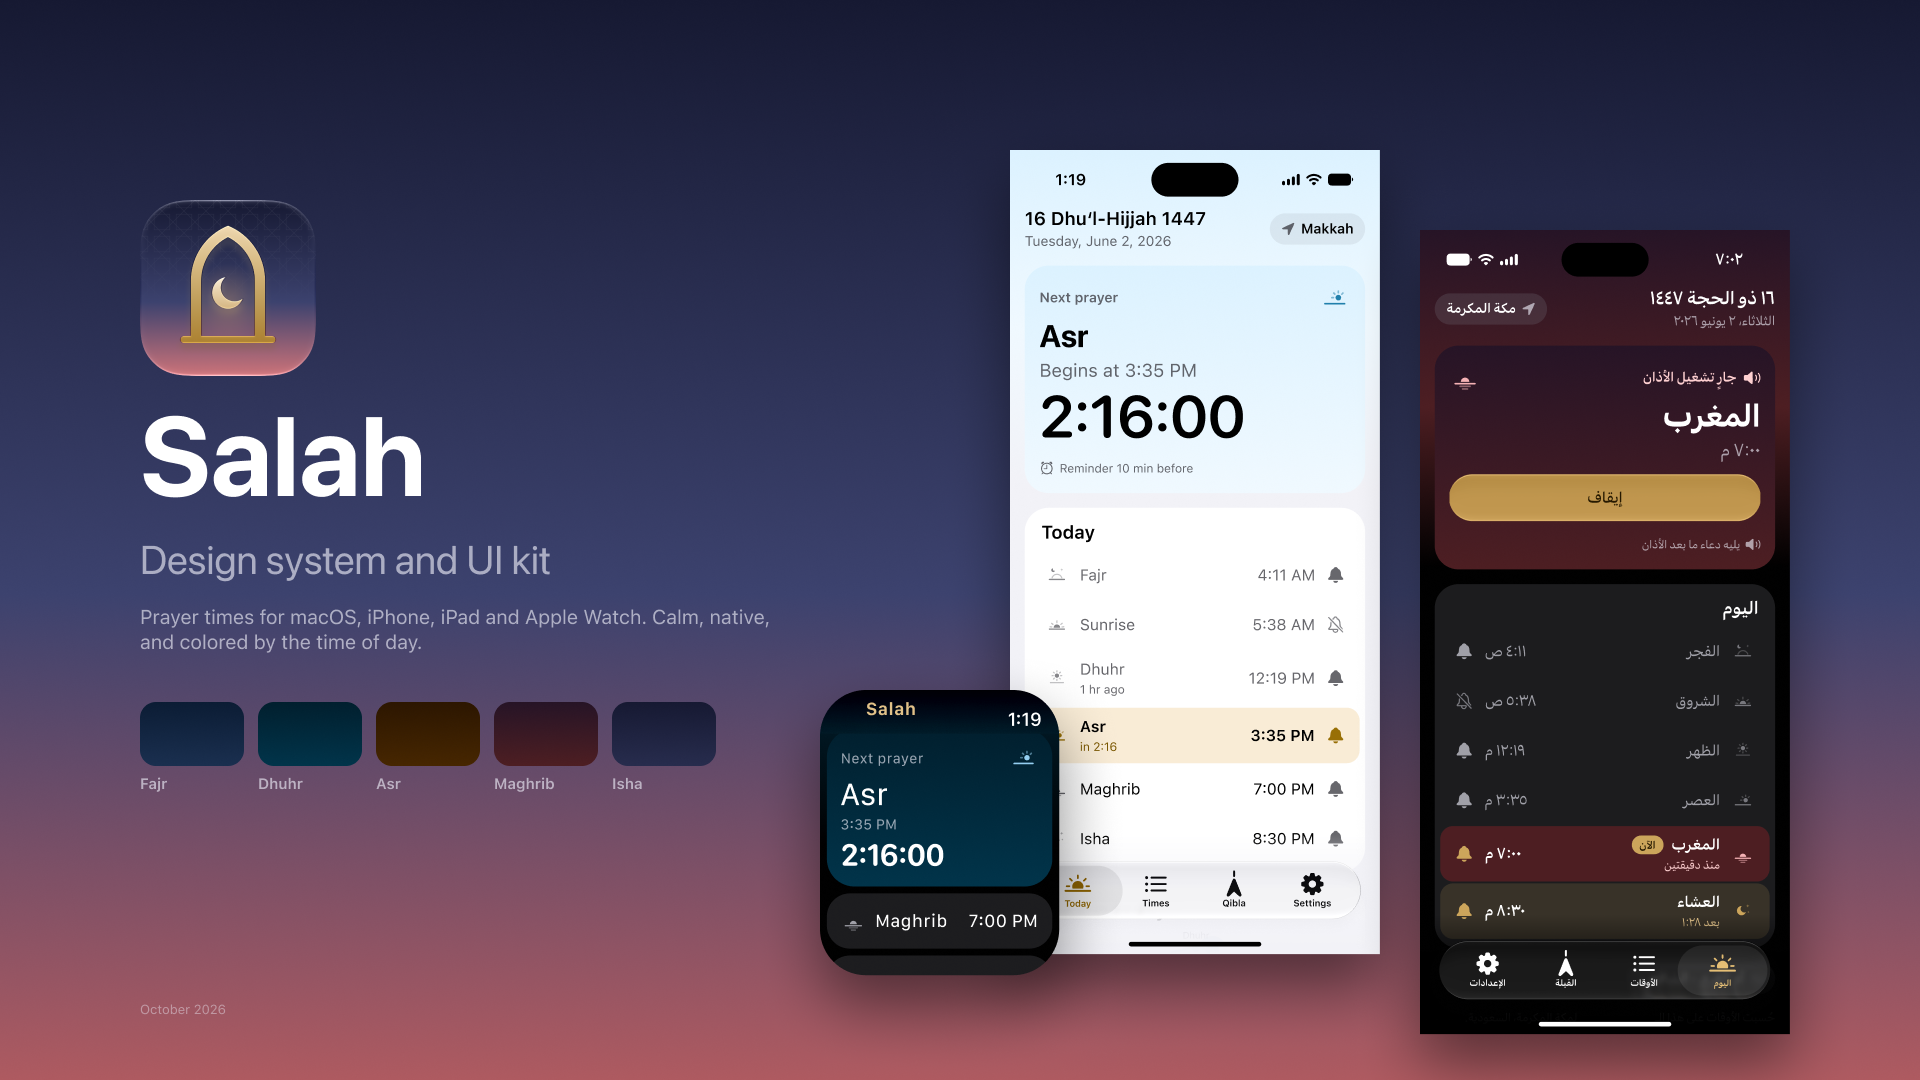
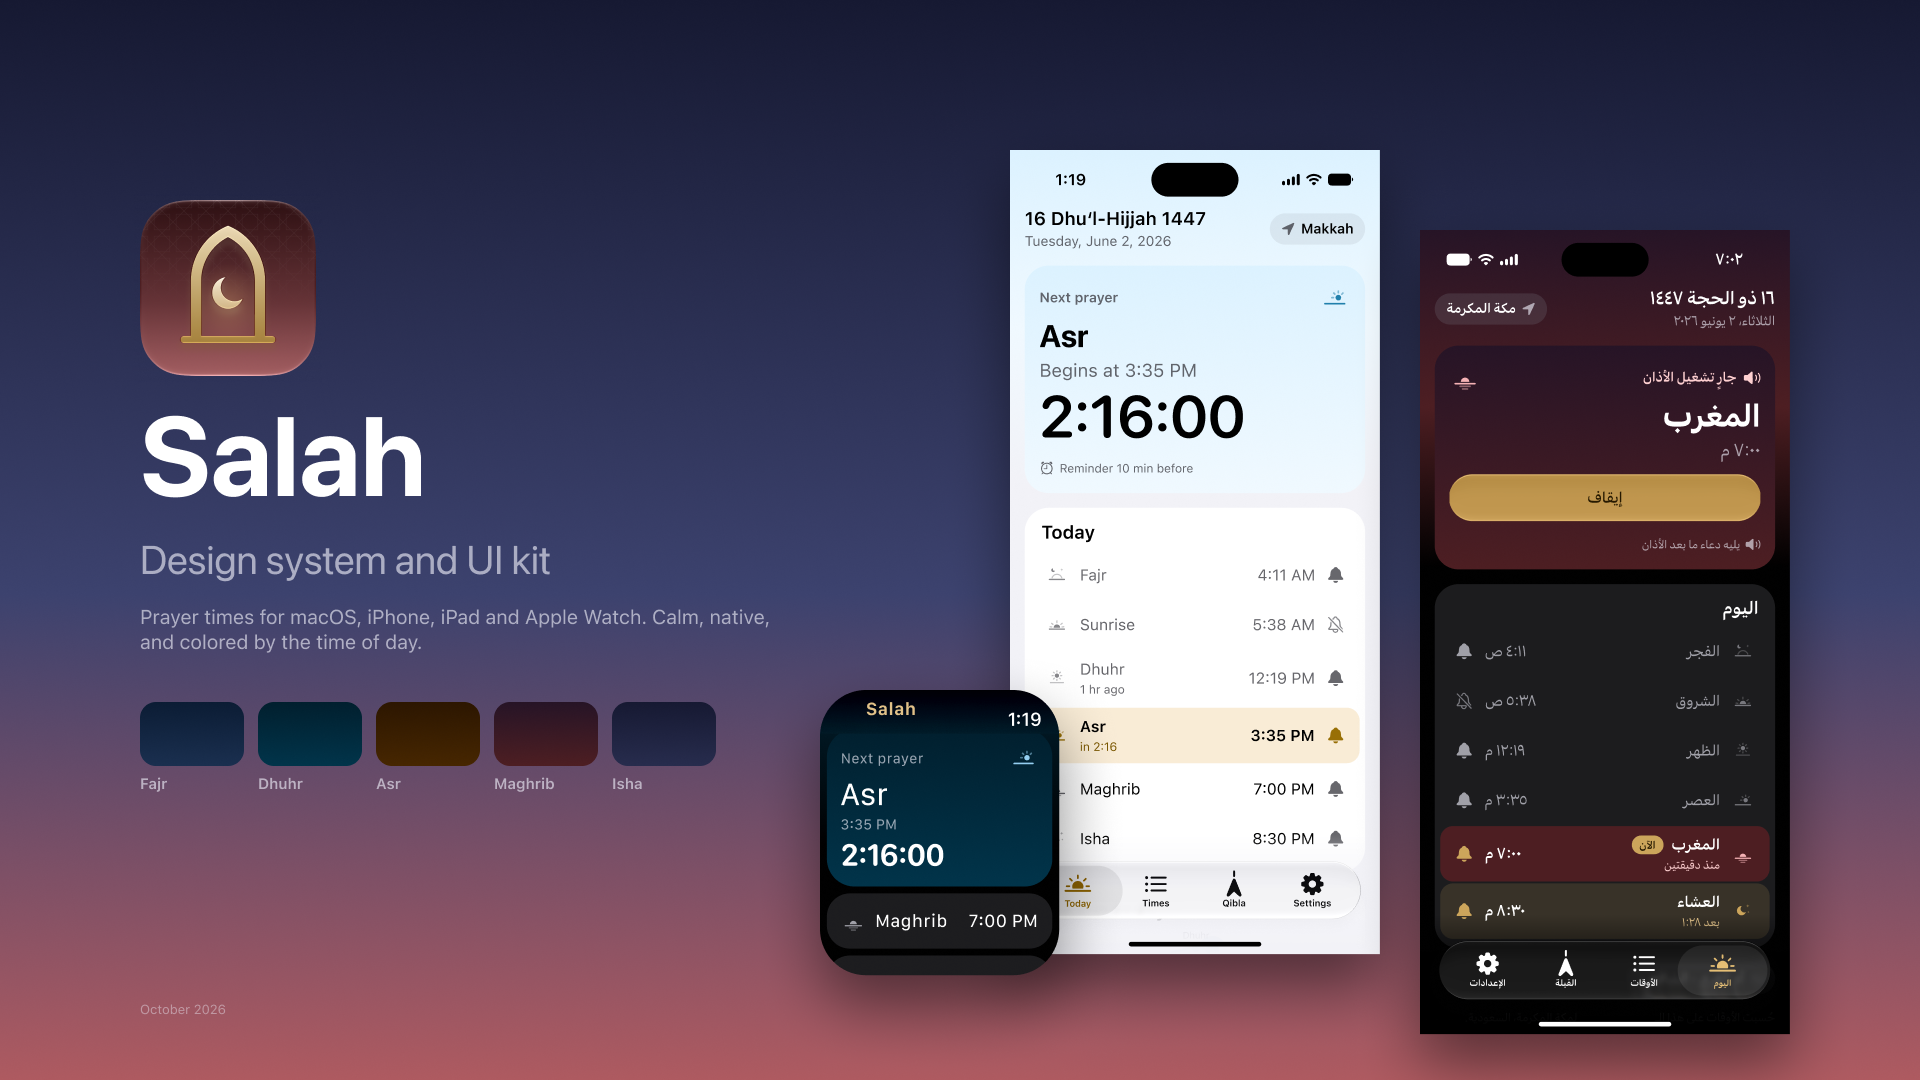
Show the burgundy sky in the Top Shelf images and previews
The static Top Shelf images and the cover and Lock Screen previews are
exported again from the library, whose Apple TV icon layers now live on
the App Icon page.

Changed region(s): [[0.0625, 0.1833, 0.1875, 0.3667]]

diff --git a/Design/README.md b/Design/README.md
@@ -433,8 +433,9 @@ tvOS draws an app icon as a stack of layers that shift with focus, so the Apple 
 its own brand assets in `SalahTV/Assets.xcassets`: an icon of five layers (Crescent,
 Mihrab, Glow, Texture and Sky, front to back) at 400 × 240 pt for the Home Screen and
 1280 × 768 px for the App Store, and the static Top Shelf images at 1920 × 720 and
-2320 × 720 pt. The layers are drawn on the library's tvOS page from the square icon's
-arch, crescent and burgundy sky. `AppIcon/tvOS/` holds each layer's SVG at the Home Screen
+2320 × 720 pt. The layers are components in the "Apple TV icon layers" frame on the library's App Icon
+page, drawn from the square icon's arch, crescent and burgundy sky; the tvOS page's static
+Top Shelf image is built from instances of Sky, Glow, Mihrab and Crescent. `AppIcon/tvOS/` holds each layer's SVG at the Home Screen
 icon's 2x size; the back layer, Sky, is opaque, as tvOS requires. After editing a layer,
 render the assets again. The script needs `rsvg-convert` (librsvg) and `ffmpeg`:
 
